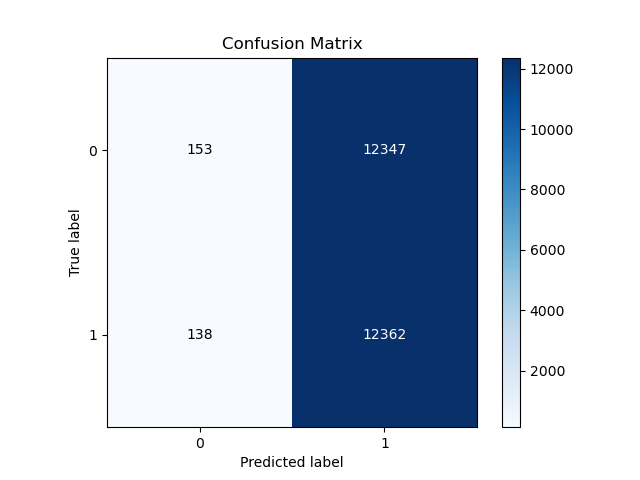
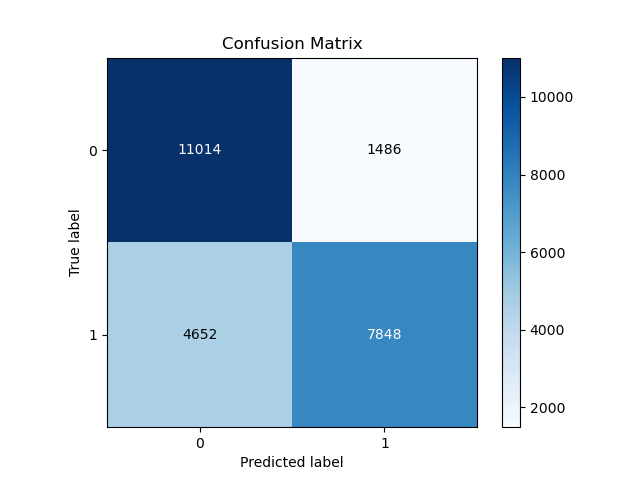
AT-Lstm changes, new conda file, can run both AT-LSTM and the Hybrid model, needed to update the older models to support newer keras version calls.

diff --git a/at-lstm/train_at_lstm.py b/at-lstm/train_at_lstm.py
@@ -1,26 +1,28 @@
 import time
 import pandas as pd
-
+import os
 import at_lstm
 from preprocess import *
-
+SEED = 0
 
 def get_training_data(sample_size=50):
-    filename = 'datasets/IMDB Dataset.csv'
-    df = pd.read_csv(filename, nrows=sample_size)
+    filepath = os.path.join("datasets","IMDBDataset.csv")
+    df = pd.read_csv(filepath)
+    
+    sampled_df = df.sample(n=sample_size, random_state=SEED)
 
-    tokens = (df['review']
+    tokens = (sampled_df['review']
               .apply(remove_html_tags)
               .apply(tokenize)
               .apply(remove_stop_words))
 
-    labels = df['sentiment'].apply(standardize)
+    labels = sampled_df['sentiment'].apply(standardize)
     return tokens, labels
 
 
 if __name__ == '__main__':
     start = time.time()
-    cleaned_texts, y_train = get_training_data(sample_size=1000)
+    cleaned_texts, y_train = get_training_data(sample_size=4000)
 
     x_train = provide_word_embeddings(cleaned_texts)
     elapsed = time.time() - start

diff --git a/at-lstm/at_lstm.py b/at-lstm/at_lstm.py
@@ -5,8 +5,8 @@ def build_model(INPUT_SEQUENCE_LEN=80, EMBEDDING_SIZE=200, show_summary=False):
     input_tensor = tf.keras.Input(shape=(INPUT_SEQUENCE_LEN, EMBEDDING_SIZE))
 
     lstm1_output = tf.keras.layers.LSTM(256, return_sequences=True)(input_tensor)
-    # lstm2_output = tf.keras.layers.LSTM(128, return_sequences=True)(lstm1_output)
-    attention_output = tf.keras.layers.Attention()([lstm1_output, lstm1_output])
+    lstm2_output = tf.keras.layers.LSTM(256, return_sequences=True)(lstm1_output)
+    attention_output = tf.keras.layers.Attention()([lstm1_output, lstm2_output])
 
     # dense_output = tf.keras.layers.Dense(64, activation='relu')(attention_output)
     output_tensor = tf.keras.layers.Dense(1, activation='sigmoid')(attention_output)

diff --git a/code/train_binary_hybrid.py b/code/train_binary_hybrid.py
@@ -1,7 +1,7 @@
 import csv
 import numpy as np
 from keras.preprocessing.text import Tokenizer
-from keras.preprocessing.sequence import pad_sequences
+from keras_preprocessing.sequence import pad_sequences
 from keras.models import Sequential,Model
 from keras.layers import Dense, Input, Concatenate
 from keras.layers import LSTM,Embedding,Bidirectional

diff --git a/code/train_multiclass_hybrid.py b/code/train_multiclass_hybrid.py
@@ -1,7 +1,7 @@
 import csv
 import numpy as np
 from keras.preprocessing.text import Tokenizer
-from keras.preprocessing.sequence import pad_sequences
+from keras_preprocessing.sequence import pad_sequences
 from keras.models import Sequential,Model
 from keras.layers import Dense, Input, Concatenate
 from keras.layers import LSTM,Embedding,Bidirectional

diff --git a/code/testBinaryHybrid.py b/code/testBinaryHybrid.py
@@ -8,7 +8,7 @@ import csv
 from keras.models import load_model
 import numpy as np
 from keras.preprocessing.text import Tokenizer
-from keras.preprocessing.sequence import pad_sequences
+from keras_preprocessing.sequence import pad_sequences
 from collections import Counter
 
 rowsx = []

diff --git a/code/testMulticlassHybrid.py b/code/testMulticlassHybrid.py
@@ -8,7 +8,7 @@ import csv
 from keras.models import load_model
 import numpy as np
 from keras.preprocessing.text import Tokenizer
-from keras.preprocessing.sequence import pad_sequences
+from keras_preprocessing.sequence import pad_sequences
 from collections import Counter
 
 rowsx = []

diff --git a/at-lstm/preprocess.py b/at-lstm/preprocess.py
@@ -4,6 +4,8 @@ import tensorflow as tf
 from bs4 import BeautifulSoup as beauty
 from gensim.models import KeyedVectors
 from nltk.corpus import stopwords
+import nltk
+import re
 
 nltk.download('stopwords')
 stop_words = set(stopwords.words('english'))

diff --git a/README.md b/README.md
@@ -36,3 +36,7 @@ The data is too large to be stored on git. You must download it manually from my
 https://drive.google.com/drive/folders/19UZ1r7dx4vNYeFTAc1blgahwxlMmR_ig?usp=drive_link 
 
 (If you dont have access please ping me...)
+
+
+# Experiments
+
